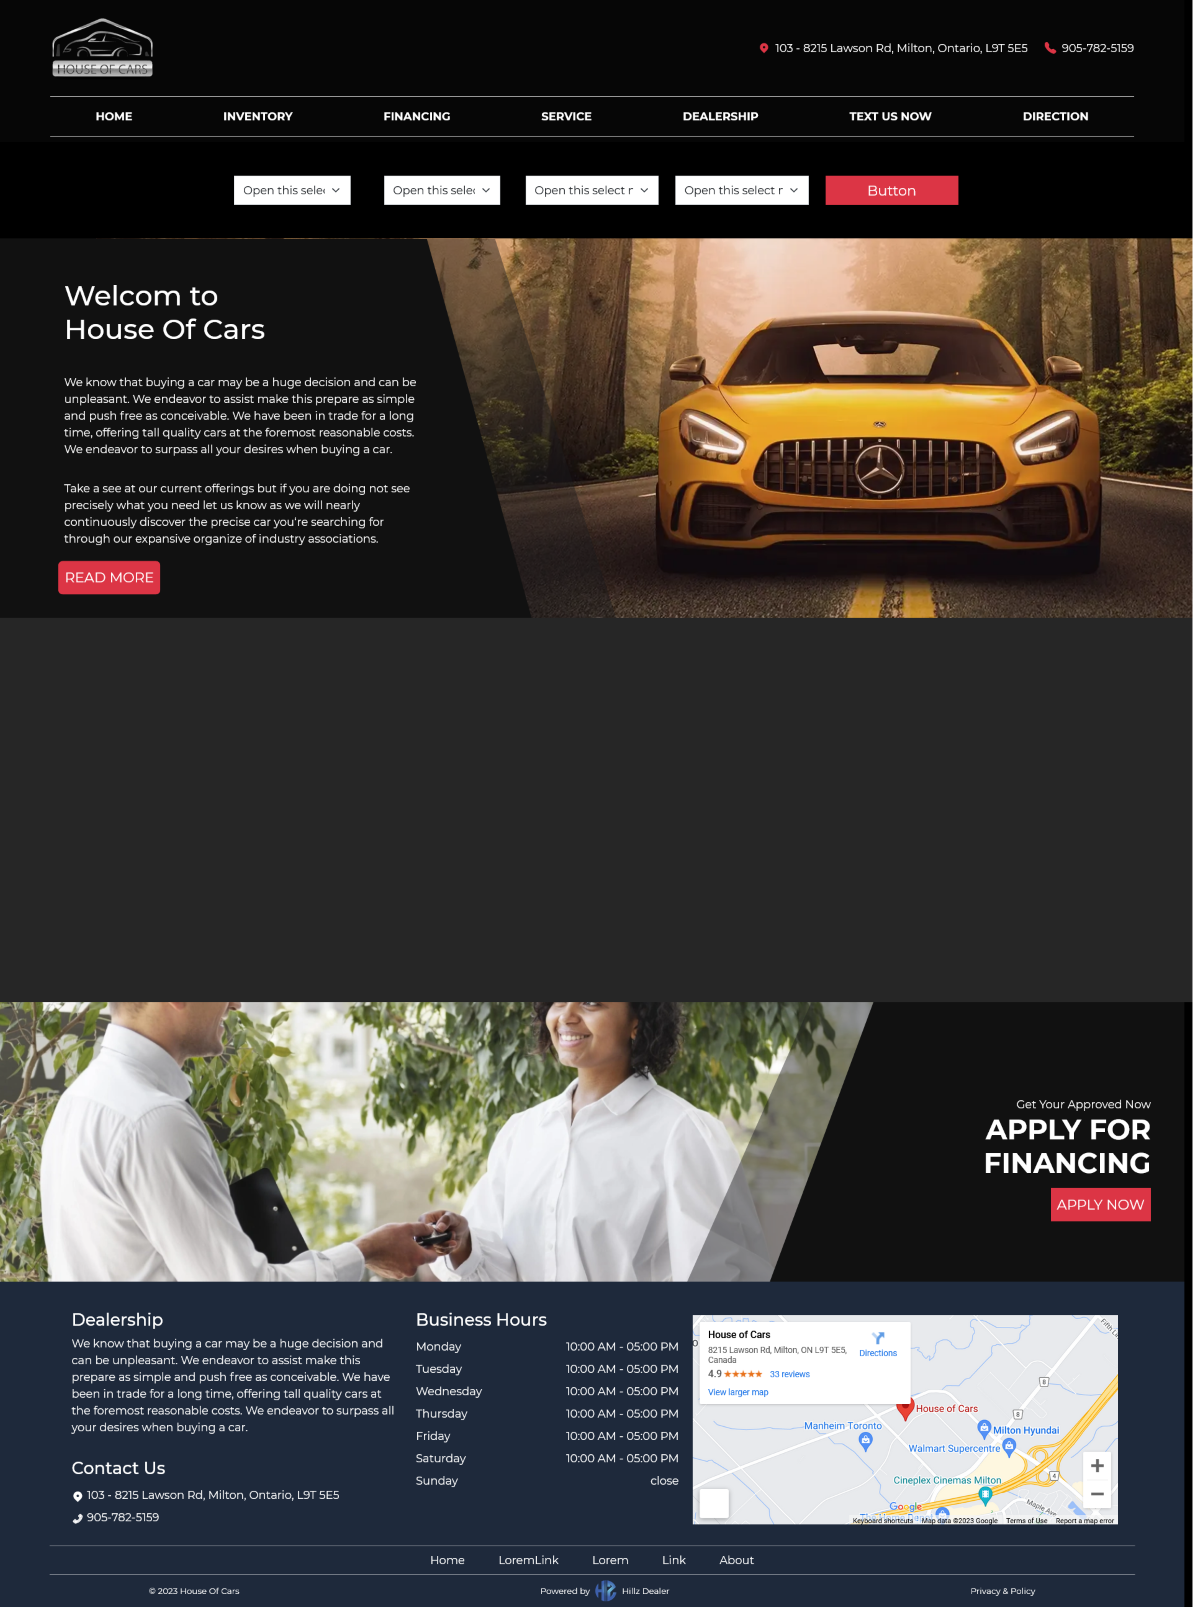
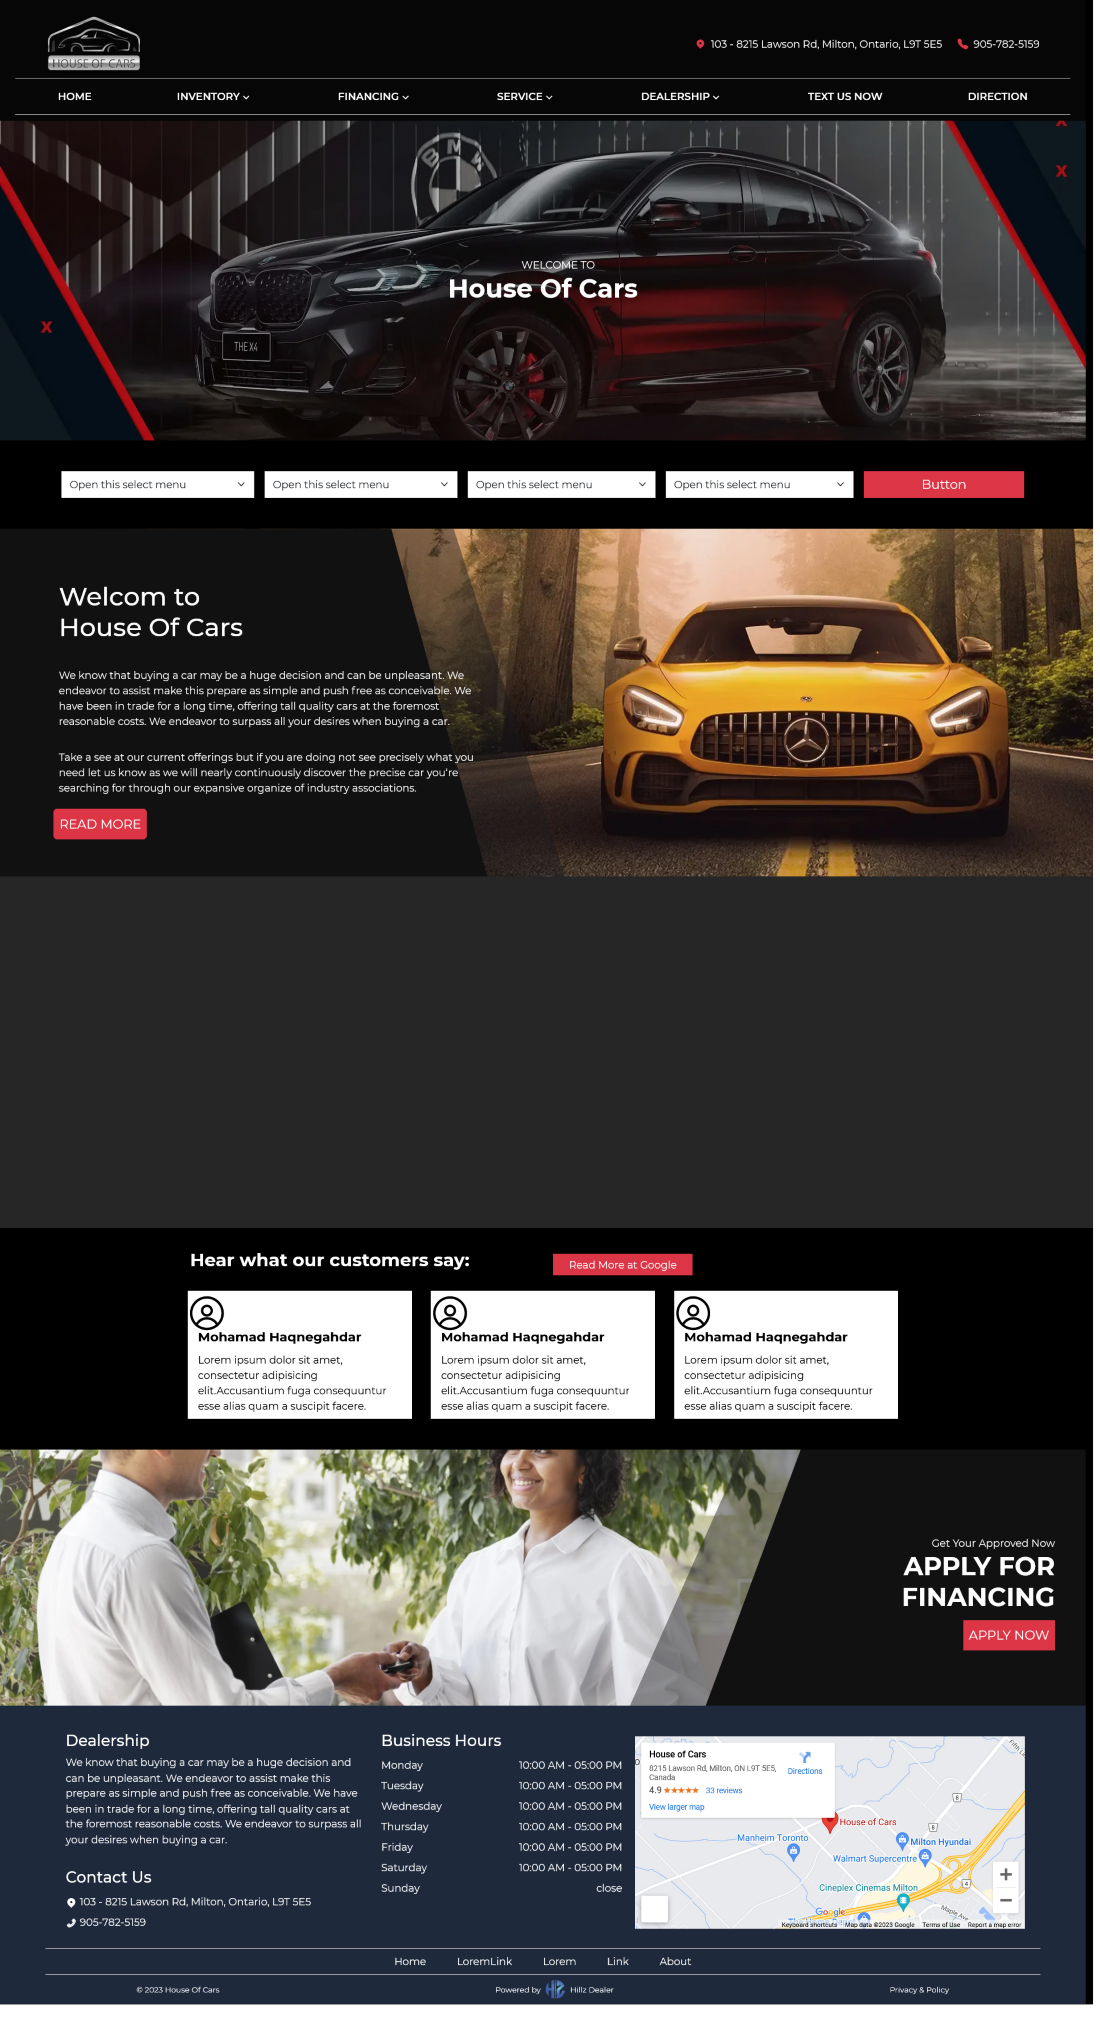
Hero Slider: (#4)
- Added **HeroSlider** component
- Fixed **AdvancedSearch** responsive problem
- Updated **README.md** and **cover.png**

diff --git a/src/components/layout/home/AdvancedSearch.tsx b/src/components/layout/home/AdvancedSearch.tsx
@@ -1,8 +1,8 @@
 const AdvancedSearch = () => {
   return (
     <section className="p-0 px-2 px-md-3 px-lg-5 m-0 py-5 w-100 d-flex justify-content-center align-items-center bg-dark-2">
-      <form className="row justify-content-center gap-4 align-items-stretch d-flex">
-        <div className="col-lg-2  col-12">
+      <form className=" search justify-content-center gap-4 gap-sm-2 gap-md-3 align-items-stretch d-flex flex-column flex-lg-row w-100 flex-grow-1 px-lg-5 ">
+        <div className="w-100  search__input">
           <select
             className="form-select rounded-0 py-2"
             aria-label="Default select example"
@@ -15,7 +15,7 @@ const AdvancedSearch = () => {
             <option value="3">Three</option>
           </select>
         </div>
-        <div className="col-lg-2  col-12">
+        <div className="w-100  search__input">
           <select
             className="form-select rounded-0 py-2"
             aria-label="Default select example"
@@ -28,34 +28,36 @@ const AdvancedSearch = () => {
             <option value="3">Three</option>
           </select>
         </div>
-        <div className="p-0 col-lg-2 col-md-6 col-12">
-          <select
-            className="form-select rounded-0 py-2"
-            aria-label="Default select example"
-          >
-            <option value=" " selected>
-              Open this select menu
-            </option>
-            <option value="1">One</option>
-            <option value="2">Two</option>
-            <option value="3">Three</option>
-          </select>
-        </div>
-        <div className="p-0 col-lg-2 col-md-6 col-12">
-          <select
-            className="form-select rounded-0 py-2"
-            aria-label="Default select example"
-          >
-            <option selected value=" ">
-              Open this select menu
-            </option>
-            <option value="1">One</option>
-            <option value="2">Two</option>
-            <option value="3">Three</option>
-          </select>
+        <div className="search__input-container d-flex gap-4 gap-sm-2 gap-lg-3 flex-sm-column flex-md-row ">
+          <div className="w-100  search__input">
+            <select
+              className="form-select rounded-0 py-2"
+              aria-label="Default select example"
+            >
+              <option selected value=" ">
+                Open this select menu
+              </option>
+              <option value="1">One</option>
+              <option value="2">Two</option>
+              <option value="3">Three</option>
+            </select>
+          </div>
+          <div className="w-100  search__input">
+            <select
+              className="form-select rounded-0 py-2"
+              aria-label="Default select example"
+            >
+              <option selected value=" ">
+                Open this select menu
+              </option>
+              <option value="1">One</option>
+              <option value="2">Two</option>
+              <option value="3">Three</option>
+            </select>
+          </div>
         </div>
         <button
-          className="p-0 m-0 btn btn-danger col-lg-2 col-12 rounded-0 py-1 fs-5"
+          className="p-0 m-0 btn btn-danger col-lg-2 col-12 rounded-0 py-1 fs-5 search__input"
           type="submit"
         >
           Button

diff --git a/src/components/layout/home/HeroSlider.tsx b/src/components/layout/home/HeroSlider.tsx
@@ -1,0 +1,58 @@
+// Hooks/Packages
+import Image from "next/image";
+import { Swiper, SwiperSlide } from "swiper/react";
+
+// Data
+const slides = [
+  {
+    key: 1,
+    src: "https://image123.azureedge.net/houseofcars/7623325805826178-SLIDER1.webp",
+  },
+  {
+    key: 2,
+    src: "https://image123.azureedge.net/houseofcars/20542645725351893-SLIDER2.webp",
+  },
+  {
+    key: 3,
+    src: "https://image123.azureedge.net/houseofcars/6039113314609164-SLIDER3.webp",
+  },
+  {
+    key: 4,
+    src: "https://image123.azureedge.net/houseofcars/7623325805826178-SLIDER1.webp",
+  },
+  {
+    key: 5,
+    src: "https://image123.azureedge.net/houseofcars/6039113314609164-SLIDER3.webp",
+  },
+];
+
+const HeroSlider = () => {
+  return (
+    <section className="hero-slider m-0 p-0 position-relative w-100 ">
+      <div className="">
+        <Swiper>
+          {slides.map(({ key, src }) => (
+            <SwiperSlide key={key}>
+              <div className="hero-slider__slide position-relative">
+                <Image
+                  src={src}
+                  fill
+                  className="hero-slider__slide-image w-100 h-100 object-fit-cover"
+                  alt="Slide"
+                />
+                <div className="hero-slider__slide-shadow position-absolute w-100 h-100"></div>
+              </div>
+            </SwiperSlide>
+          ))}
+        </Swiper>
+      </div>
+      {/* Title */}
+      <div className="hero-slider__title position-absolute start-50 top-50 translate-middle d-none d-sm-flex flex-column align-items-center justify-content-center z-3  ">
+        <p className="ps-5">WELCOME TO</p>
+        <h1 className="fw-bold">House Of Cars</h1>
+      </div>
+    </section>
+  );
+};
+
+export default HeroSlider;

diff --git a/src/pages/index.tsx b/src/pages/index.tsx
@@ -9,6 +9,7 @@ import Articles from "@/components/layout/home/Articles";
 import Footer from "@/components/common/layout/footer/Footer";
 import CTA from "@/components/layout/home/CTA";
 import Testimonial from "@/components/layout/home/Testimonial";
+import HeroSlider from "@/components/layout/home/HeroSlider";
 
 const inter = Inter({ subsets: ["latin"] });
 
@@ -23,6 +24,7 @@ export default function Home() {
       </Head>
       <Header />
       <main className={` ${inter.className} `}>
+        <HeroSlider />
         <AdvancedSearch />
         <About />
         <Articles />

diff --git a/src/components/common/layout/header/NavBar.tsx b/src/components/common/layout/header/NavBar.tsx
@@ -61,7 +61,7 @@ const menuInfos = [
 
 const NavBar = ({ toggle, setToggle }: ToggleStateType) => {
   return (
-    <nav className=" navbar border-0 border-top-2 border-bottom-2 border-white p-0 px-lg-5 py-2 m-0 mt-md-3 position-relative ">
+    <nav className=" navbar border-0 border-top-2 border-bottom-2 border-white position-relative ">
       {/* Menu On Larg Screen */}
       <ul className="menu d-none d-lg-flex justify-content-around w-100 navbar ">
         {menuItems.map(({ key, title, link, subLinks }) => (

diff --git a/src/assets/sass/pages/home/_heroslider.scss b/src/assets/sass/pages/home/_heroslider.scss
@@ -1,0 +1,22 @@
+.hero-slider {
+  &__slide {
+    @include xs {
+      height: 250px;
+    }
+    @include md {
+      height: 350px;
+    }
+
+    @include lg {
+      height: 500px;
+    }
+  }
+
+  &__slide-image {
+  }
+  &__slide-shadow {
+    @include lg {
+      background-color: rgba(0, 0, 0, 0.3);
+    }
+  }
+}

diff --git a/src/assets/sass/pages/home/index.scss b/src/assets/sass/pages/home/index.scss
@@ -3,3 +3,5 @@
 @import "./articles";
 @import "./cta";
 @import "./testimonial";
+@import "./heroslider";
+@import "./advanced_search";

diff --git a/src/assets/sass/pages/home/_advanced_search.scss b/src/assets/sass/pages/home/_advanced_search.scss
@@ -1,0 +1,7 @@
+.search {
+  &__input-container {
+    @include lg {
+      width: 200% !important;
+    }
+  }
+}

diff --git a/README.md b/README.md
@@ -10,7 +10,7 @@ Explore the [demo](https://maxjn-starline-clone.vercel.app/) for better understa
 - TypeScript
 - **Nextjs v13.4**
 - **Main Packages:** bootstrap, sass
-- **Secondary Packages:** react-icons
+- **Secondary Packages:** react-icons, swiper
 - **Routing:** useing page directory
 
 ## Features
@@ -21,6 +21,8 @@ Explore the [demo](https://maxjn-starline-clone.vercel.app/) for better understa
 - Advanced Search
 - About Us
 - Why Choose Us
+- Testimonials
+- CTA Section
 - Footer
 
 ## Installation
